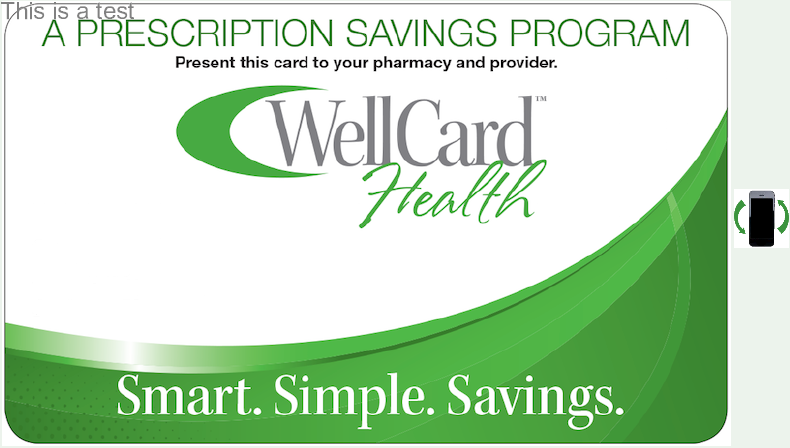
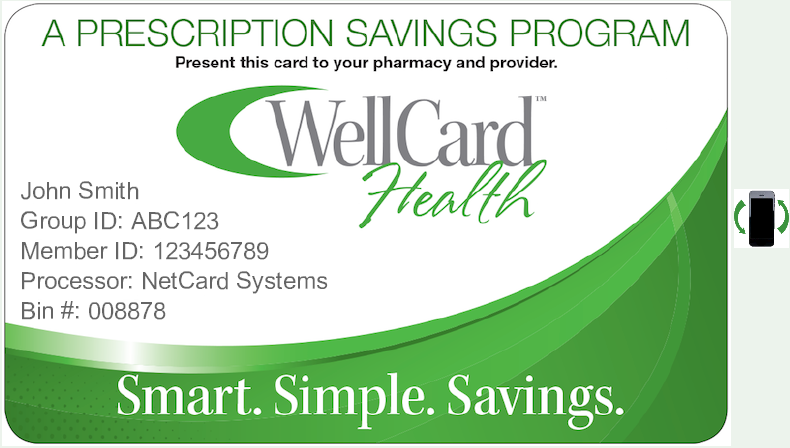
ready

Changed region(s): [[0.0304, 0.4062, 0.4253, 0.7188], [0.0, 0.0, 0.1823, 0.0625]]

diff --git a/example/example.dart b/example/example.dart
@@ -7,7 +7,12 @@ void main() {
   Image rotatedImage = copyRotate(image, -90);
   new File('card-front-rotated-90.png').writeAsBytesSync(encodePng(rotatedImage));
 
-  drawString(rotatedImage, arial_24, 0, 0, 'This is a test', color: Color.fromRgb(128, 128, 128));
+  int color = Color.fromRgb(101, 101, 101);
+  drawString(rotatedImage, arial_24, 20, 180, 'John Smith', color: color);
+  drawString(rotatedImage, arial_24, 20, 210, 'Group ID: ABC123', color: color);
+  drawString(rotatedImage, arial_24, 20, 240, 'Member ID: 123456789', color: color);
+  drawString(rotatedImage, arial_24, 20, 270, 'Processor: NetCard Systems', color: color);
+  drawString(rotatedImage, arial_24, 20, 300, 'Bin #: 008878', color: color);
   new File('card-front-rotated-90-text.png').writeAsBytesSync(encodePng(rotatedImage));
 
   Image rotatedImageBack = copyRotate(rotatedImage, 90);
